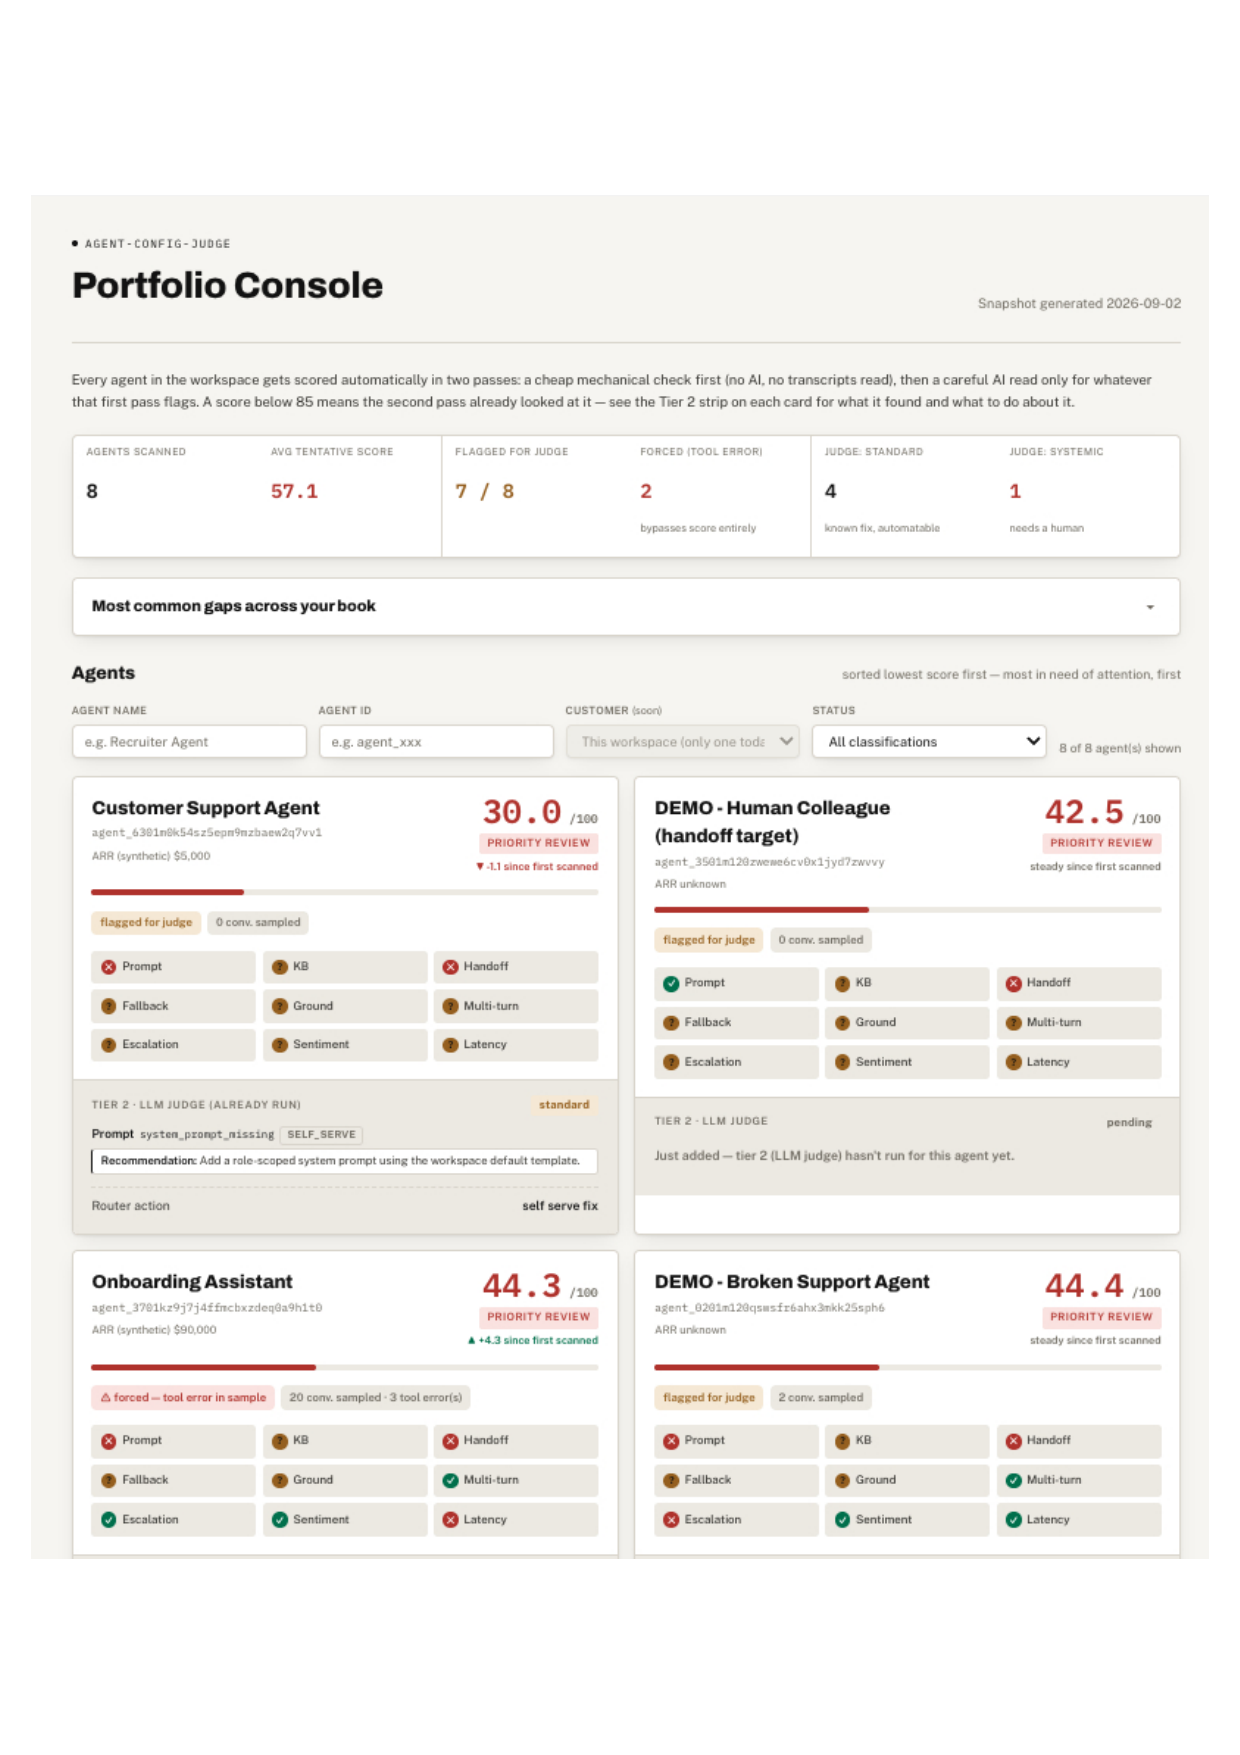
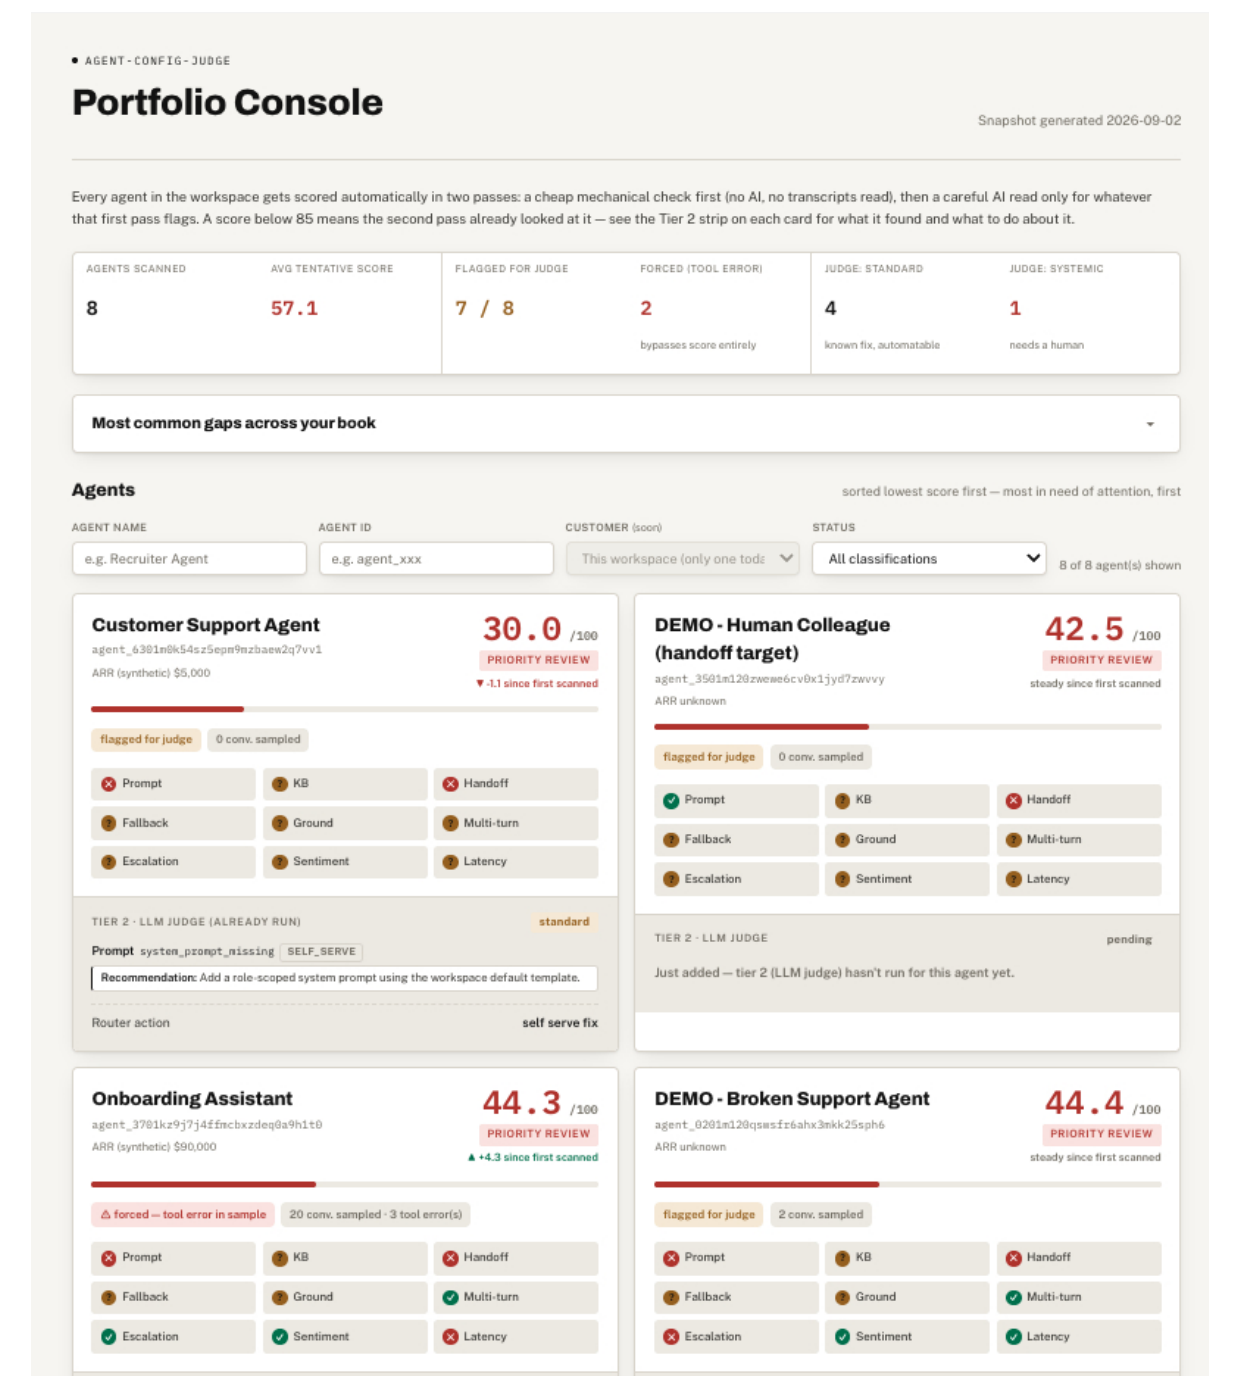
docs: crop dashboard screenshot's blank margin, caption the judge trio (#34)
- docs/screenshots/dashboard.png had ~200px of blank space above the
  actual page content (from how the source screenshot was captured) —
  cropped tight to content, closing the large gap between the "Cheap
  pass" paragraph and the image.
- Added a one-line bold caption above each of the three "LLM judge"
  screenshots at the top of the README, naming the exact command each
  one is a capture of, so they're distinguishable at a glance instead
  of needing to open each image to tell them apart.

No code changes; pytest (70 tests) passes unchanged.

Claude-Session: https://claude.ai/code/session_01SM6ej8FxQExiWTcpDqYk7x

Changed region(s): [[0.0613, 0.1239, 0.95, 0.9914], [0.0613, 0.031, 0.3065, 0.0929], [0.7968, 0.062, 0.95, 0.0929]]

diff --git a/README.md b/README.md
@@ -50,8 +50,13 @@ tiers:
    fix is **standard** (automatable); a cause with no known fix is
    **systemic** (needs a human) — by construction, not by judgment call.
 
+   **`agentjudge scan --backend live`** — full portfolio, judge tier actually invoked
    ![agentjudge scan --backend live: five real agents triaged by the judge in one command](docs/screenshots/scan-full-portfolio.png)
+
+   **`agentjudge evaluate --backend live`** — an uncatalogued cause found live
    ![agentjudge evaluate --backend live: an uncatalogued cause_code pulls an agent from standard to systemic and logs a recipe gap](docs/screenshots/recipe-gap.png)
+
+   **`agentjudge evaluate --backend live --ensemble-max-extra-runs 2`** — confirming a clean read
    ![agentjudge evaluate --backend live --ensemble-max-extra-runs 2: the ensemble confirming a real failure on its first attempt](docs/screenshots/ensemble-confirmation.png)
 
 A router then turns (classification × account ARR) into exactly one action.
